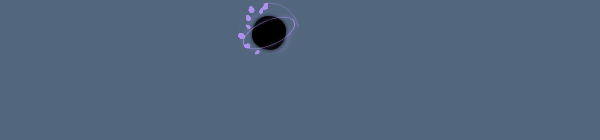
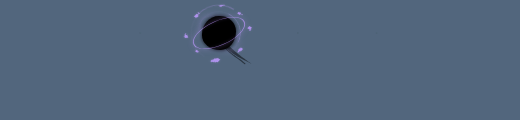
Keep gravity particles spaced with varied liquid shapes

Changed region(s): [[0.3385, 0.025, 0.4923, 0.525]]

diff --git a/desktop/ui/attachment-drop.js b/desktop/ui/attachment-drop.js
@@ -42,10 +42,17 @@
     if(cell===target){animate(1);return;}
     clear();target=cell;const at=cell.querySelector('.ringwrap').getBoundingClientRect();for(const sibling of pill.querySelectorAll('.cell'))if(sibling!==cell){const r=sibling.querySelector('.ringwrap').getBoundingClientRect();pulls.set(sibling,{x:at.left+at.width/2-r.left-r.width/2,y:at.top+at.height/2-r.top-r.height/2});}cell.classList.add('drop-target');well=document.createElement('div');well.className='gravity-well';well.setAttribute('aria-hidden','true');
     well.innerHTML='<i class="gravity-orbit"></i><i class="gravity-orbit"></i><i class="gravity-stream"></i><i class="gravity-stream"></i><i class="gravity-stream"></i>';
-    // A small local filter merges neighboring beads; only transforms animate.
-    // Keep its raster bounds independent of the fullscreen transparent window.
+    // Jitter eight separated angular strata once, never randomize per frame.
+    // One shared orbit prevents overtaking; bounded drift keeps the liquid alive.
+    // Keep the goo and soft bloom raster independent of the fullscreen window.
     const particles=document.createElementNS(SVG_NS,'svg');particles.classList.add('gravity-particles');particles.setAttribute('viewBox','-50 -50 100 100');
-    particles.innerHTML='<defs><filter id="attachment-particle-goo" filterUnits="userSpaceOnUse" x="-50" y="-50" width="100" height="100" color-interpolation-filters="sRGB"><feGaussianBlur stdDeviation="1.4"/><feColorMatrix values="1 0 0 0 0  0 1 0 0 0  0 0 1 0 0  0 0 0 16 -7"/></filter></defs><g filter="url(#attachment-particle-goo)">'+Array.from({length:8},(_,i)=>`<g class="gravity-beads" style="--particle-duration:${2.4+i*.17}s;--particle-delay:${-i*.43}s"><circle cx="${25+i%3*4}" cy="0" r="${2.6+i%3*.6}"/><circle cx="${29+i%3*4}" cy="2" r="1.8"/></g>`).join('')+'</g>';
+    const random=n=>{const x=Math.sin((n+1)*127.1+cell.dataset.p.charCodeAt(0)*311.7)*43758.5453;return x-Math.floor(x);};
+    const grains=Array.from({length:8},(_,i)=>{
+      const angle=i*45+(random(i*5)-.5)*12,radius=29+random(i*5+1)*6;
+      const size=1.3+Math.pow(random(i*5+2),2)*1.2,stretch=1.12+random(i*5+3)*.55;
+      return `<g transform="rotate(${angle})"><g class="gravity-beads" style="--particle-duration:${3.7+random(i*5+4)*2}s;--particle-delay:${-random(i*5+3)*6}s;opacity:${.8+random(i*5+2)*.2}"><ellipse class="gravity-grain" cx="${radius}" cy="0" rx="${size}" ry="${size*stretch}"/><circle cx="${radius+.5}" cy="${size*stretch+1}" r="${size*.52}"/></g></g>`;
+    }).join('');
+    particles.innerHTML='<defs><filter id="attachment-particle-goo" filterUnits="userSpaceOnUse" x="-50" y="-50" width="100" height="100" color-interpolation-filters="sRGB"><feGaussianBlur stdDeviation=".65"/><feColorMatrix values="1 0 0 0 0  0 1 0 0 0  0 0 1 0 0  0 0 0 12 -4" result="liquid"/><feGaussianBlur stdDeviation="1.1"/><feComponentTransfer><feFuncA type="linear" slope=".28"/></feComponentTransfer><feMerge><feMergeNode/><feMergeNode in="liquid"/></feMerge></filter></defs><g transform="rotate(-18) scale(1 .8)"><g class="gravity-swarm" filter="url(#attachment-particle-goo)">'+grains+'</g></g>';
     well.append(particles);
     const account=agentAccounts.find(a=>a.id===cell.dataset.p),light=window.accountLight(account,agentAccounts);
     well.style.setProperty('--gravity-color',{'codex-a':'#74a9ff','codex-b':'#be99ff',claude:'#d97757',agy:'#7fabfa'}[light]||'#74a9ff');

diff --git a/desktop/ui/attachment-drop.css b/desktop/ui/attachment-drop.css
@@ -6,14 +6,16 @@ body.drop-hover #pill .cell .ringwrap{transform:translate(var(--pull-x,0px),var(
 .gravity-well{position:absolute;inset:-12px;pointer-events:none;z-index:5;opacity:var(--drop-open);scale:calc(.38 + var(--drop-open) * .62);color:var(--gravity-color,#74a9ff);isolation:isolate}
 .gravity-well::after{content:"";position:absolute;inset:17px;background:#000;border-radius:var(--hole-radius,50%);box-shadow:0 0 3px 1px #0008;z-index:3}
 .gravity-particles{position:absolute;left:-16px;top:-16px;width:calc(100% + 32px);height:calc(100% + 32px);pointer-events:none;fill:currentColor;opacity:.85;z-index:2}
-.gravity-beads{transform-origin:0 0;animation:gravity-beads var(--particle-duration) linear var(--particle-delay) infinite;will-change:transform}
-@keyframes gravity-beads{0%{transform:rotate(0deg) scale(1,.72)}50%{transform:rotate(180deg) scale(.82,.9)}100%{transform:rotate(360deg) scale(1,.72)}}
+.gravity-swarm{transform-origin:0 0;animation:gravity-orbit-spin 4.6s linear infinite;will-change:transform}
+.gravity-beads{transform-origin:0 0;animation:gravity-bead-drift var(--particle-duration) ease-in-out var(--particle-delay) infinite;will-change:transform}
+@keyframes gravity-orbit-spin{to{transform:rotate(360deg)}}
+@keyframes gravity-bead-drift{0%,100%{transform:rotate(-2deg) translateX(-.8px)}50%{transform:rotate(2deg) translateX(.8px)}}
 .gravity-orbit{position:absolute;inset:6px;border-radius:50%;border:1px solid color-mix(in srgb,currentColor 72%,transparent);box-shadow:0 0 9px color-mix(in srgb,currentColor 26%,transparent),inset 0 0 5px color-mix(in srgb,currentColor 15%,transparent);transform:rotate(-24deg) scaleY(.44);z-index:4}
 .gravity-orbit:nth-child(2){inset:12px;transform:rotate(38deg) scaleY(.62);border-color:color-mix(in srgb,currentColor 18%,transparent);z-index:2}
 .gravity-stream{position:absolute;inset:0;border-radius:50%;border:1px solid transparent;border-top-color:color-mix(in srgb,currentColor 62%,transparent);border-left-color:color-mix(in srgb,currentColor 10%,transparent);animation:gravity-in 1.65s cubic-bezier(.2,.5,.8,.8) infinite;opacity:0;z-index:1}
 .gravity-stream:nth-child(4){animation-delay:-.55s;inset:-5px}.gravity-stream:nth-child(5){animation-delay:-1.1s;inset:4px}
 @keyframes gravity-in{0%{transform:rotate(-60deg) scale(1.12);opacity:0}18%{opacity:.65}75%{opacity:.4}100%{transform:rotate(170deg) scale(.27);opacity:0}}
-@media(prefers-reduced-motion:reduce){#pill .cell.drop-target .ringwrap>.glyph,#pill .cell.drop-target .ringwrap>svg,#pill .cell.drop-target .pct{transition:none}.gravity-stream,.gravity-beads{animation:none;will-change:auto}.gravity-beads:nth-child(2n){transform:rotate(125deg)}.gravity-beads:nth-child(3n){transform:rotate(250deg)}}
+@media(prefers-reduced-motion:reduce){#pill .cell.drop-target .ringwrap>.glyph,#pill .cell.drop-target .ringwrap>svg,#pill .cell.drop-target .pct{transition:none}.gravity-stream,.gravity-beads,.gravity-swarm{animation:none;will-change:auto}}
 /* The hit boxes stay still while the material and contents flow inward. */
 body.drop-hover #pill .cell:not(.drop-target) .ringwrap{scale:var(--pull-scale,1);opacity:var(--pull-opacity,1)}
 body.drop-hover #pill .cell .pct{opacity:var(--pull-opacity,1)}

diff --git a/docs/attachment-drop.md b/docs/attachment-drop.md
@@ -133,3 +133,26 @@ filter dimensions, zero repeated layout after settling and clean cancellation.
 Local browser frame timing averaged 59.6 FPS at both DPI settings, with 95th
 percentile intervals of 16.8/16.7 ms. These measure the test browser’s frame
 scheduling, not a guarantee for every Windows display or GPU.
+
+## Spaced, varied particles (5.1.1)
+
+Purely independent random samples can clump. Applying the
+[PBRT stratified-sampling principle](https://www.pbr-book.org/4ed/Sampling_and_Reconstruction/Stratified_Sampler)
+to this visual effect, eight angular regions each hold one seeded, slightly
+jittered droplet. A shared orbit prevents overtaking; bounded individual angular
+and radial drift preserves irregular motion without losing the gaps. Random
+values are generated once per target, avoiding frame-to-frame flicker.
+
+Most grains are small, with fewer larger knots, tangentially stretched ellipses
+and tiny merging tails. A tighter goo filter preserves these differences; a
+faint local bloom and varied brightness avoid uniformly large glowing blobs.
+Shapes take inspiration from the stretched bright knots described in
+[NASA’s accretion-disk visualization](https://www.nasa.gov/universe/nasa-visualization-shows-a-black-holes-warped-world/).
+The coordinated orbit is an intentional UI spacing choice, not a physics model.
+Existing provider colors, transparent surroundings and notch absorption stay intact.
+Reduced motion retains the separated static positions.
+
+The sustained-hover test seeks a minute of animation and verifies particle
+centers remain at least 10 CSS pixels apart. Local checks measured a minimum
+14.2-pixel gap and approximately 60 FPS at DPR 1 and 2, with a bounded 100 × 100
+filter and no repeated layout after settling.

diff --git a/README.md b/README.md
@@ -7,7 +7,7 @@ know which agents need you, and return to a chat in VS Code without hunting for
 its terminal or choosing the account again.
 
 [Download the latest Windows installer](https://github.com/f-petrozzi/Agent-Usage/releases/latest).
-The current release is **5.1.0**.
+The current release is **5.1.1**.
 
 <p><img src="docs/images/notch.png" width="720" alt="The top-edge Agent Usage notch with four fictional accounts, provider icons, usage gauges and a yellow unread notification dot"></p>
 
